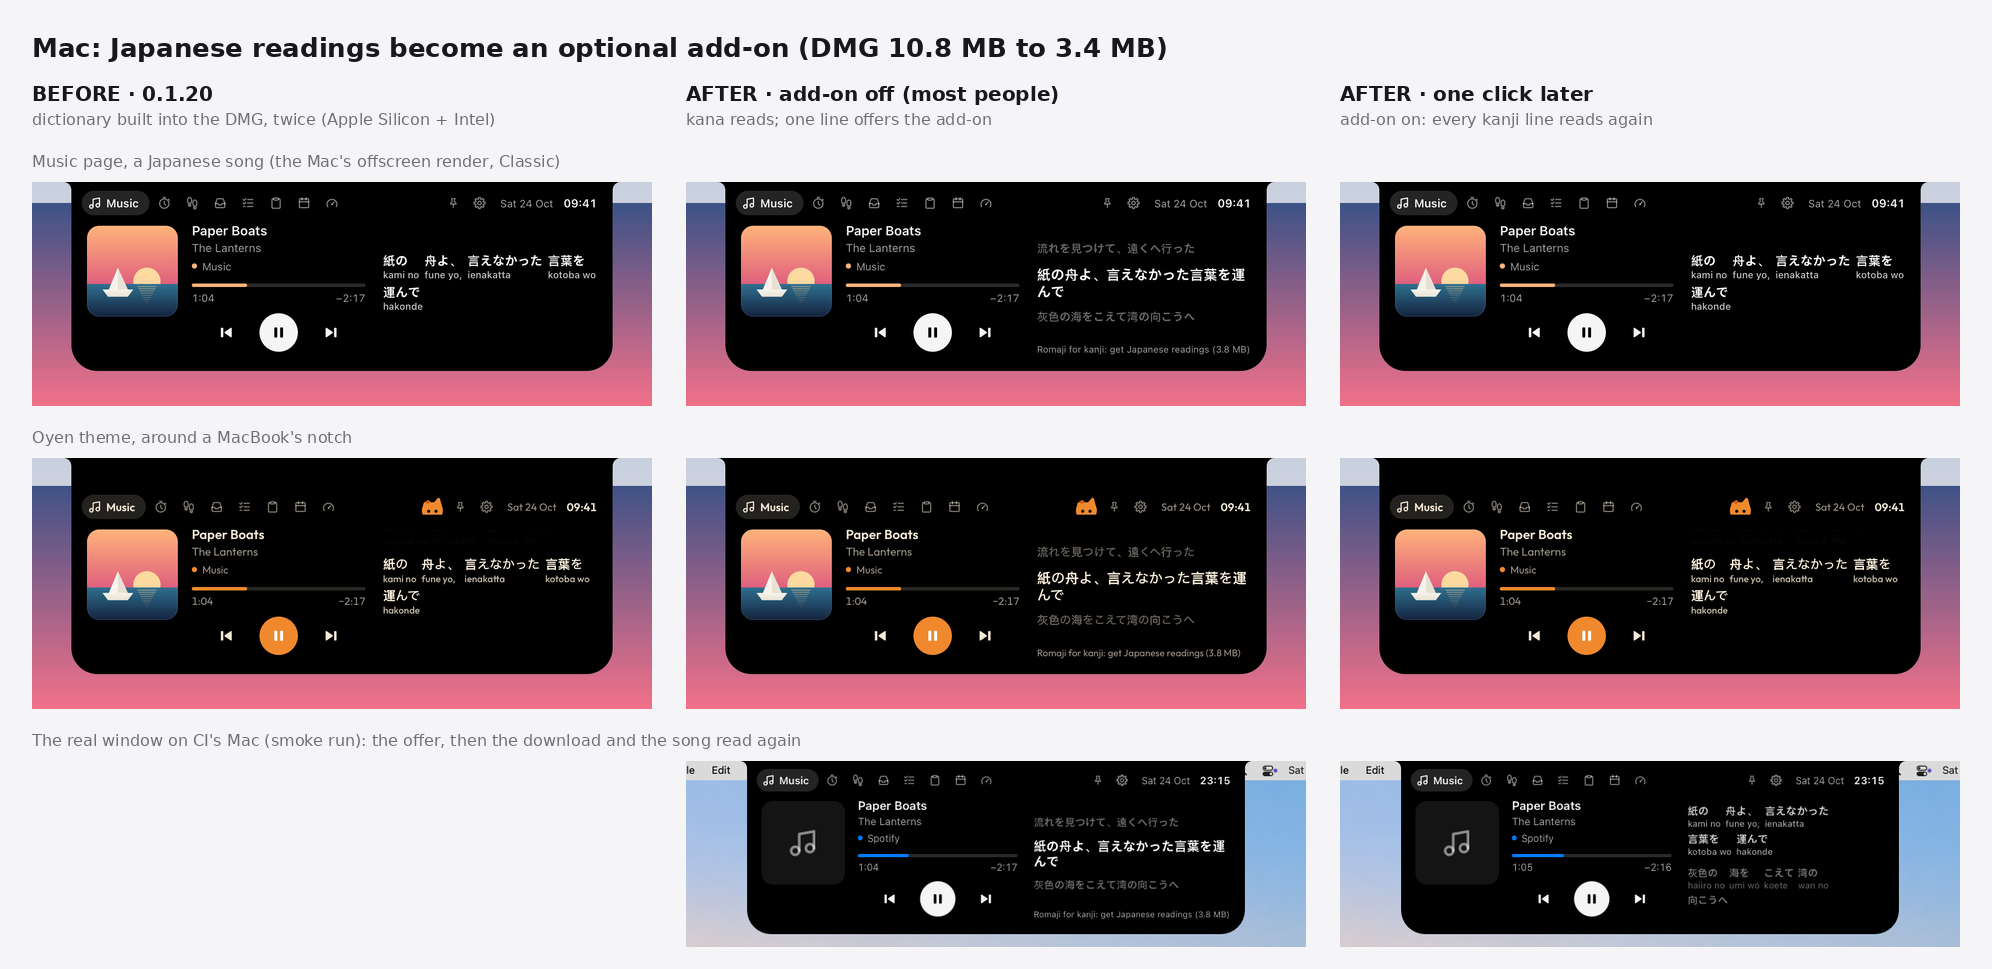
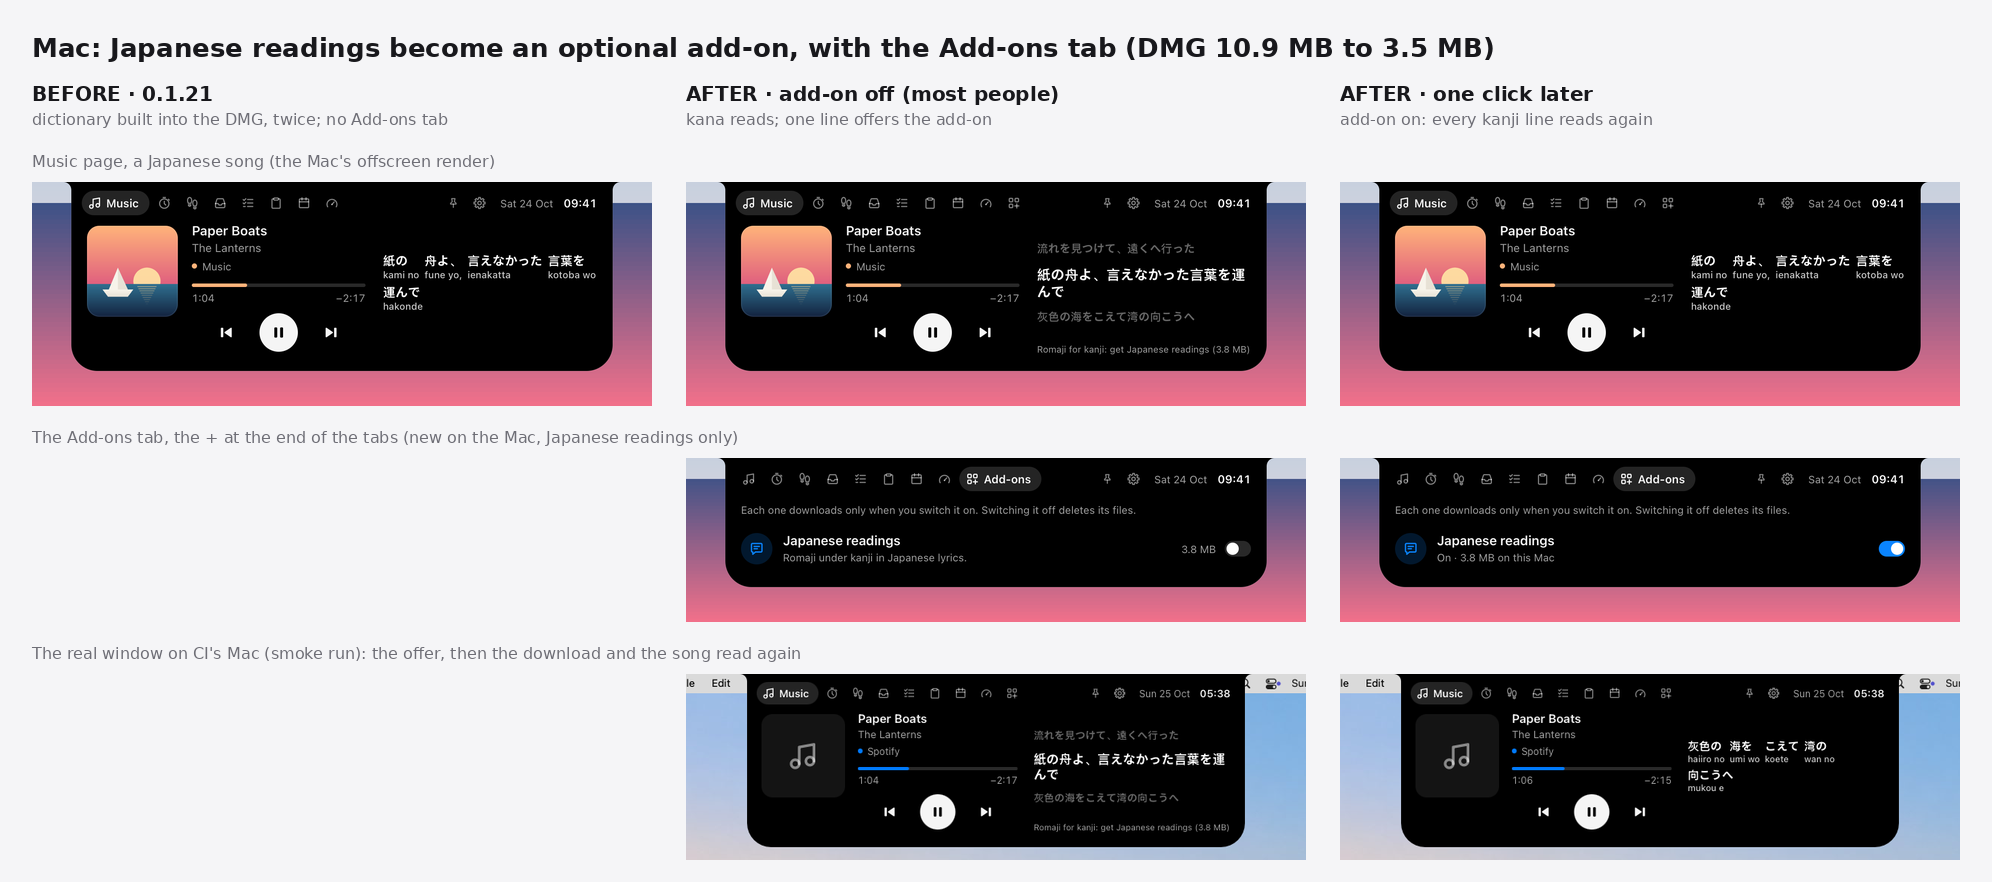
Pictures for #70 after its rebase onto 0.1.21, with the Mac's Add-ons tab

diff --git a/README.md b/README.md
@@ -1,6 +1,7 @@
-Pictures for the Mac Japanese readings PR (lucacadalora/poni#70, branch ja-readings-mac). Keep while the PR body links them.
+Pictures for the Mac Japanese readings PR (lucacadalora/poni#70, branch ja-readings-mac): the add-on, and the Mac's Add-ons tab with it as its one add-on. Keep while the PR body links them.
 
 - `mac-ja-readings-before-after.png`: the board in the PR body.
-- `before-0.1.20-*`: the Mac's offscreen render (`poni --render`, mac.yml) of the Music page with the Japanese test song, built from main at 0151527 (Release 0.1.20, dictionary built in) plus only that render scene, on a throwaway branch (deleted).
-- `after-26-*` (add-on on), `after-27-*` (the offer), `after-28-*` (downloading), `after-29-*` (failed, no Add-ons tab): the same render from the PR's last commit. `after-26` is pixel-identical to `before-0.1.20` in all six theme and notch variants.
-- `smoke-*`: the real window on CI's macOS 15 runner (tools/mac-smoke.sh): the offer, then the add-on downloaded from GitHub and the song read again.
+- `before-0.1.21-29-*`: the Mac's offscreen render (`poni --render`, mac.yml) of the Music page with the Japanese test song, built from main at 197ed5d (Release 0.1.21, dictionary built in, no Add-ons tab on the Mac) plus only that render scene, on a throwaway branch (deleted).
+- `after-29-*` (add-on on), `after-30-*` (the offer), `after-31-*` (downloading), `after-32-*` (failed): the same render from the PR's last commit.
+- `after-33-*` (Add-ons tab, off), `after-34-*` (downloading), `after-35-*` (on): the Mac's Add-ons tab, listing Japanese readings only.
+- `smoke-*`: the real window on CI's macOS 15 runner (tools/mac-smoke.sh): the offer, the add-on downloaded from GitHub and the song read again, the Add-ons tab with it on, and switched off there.
